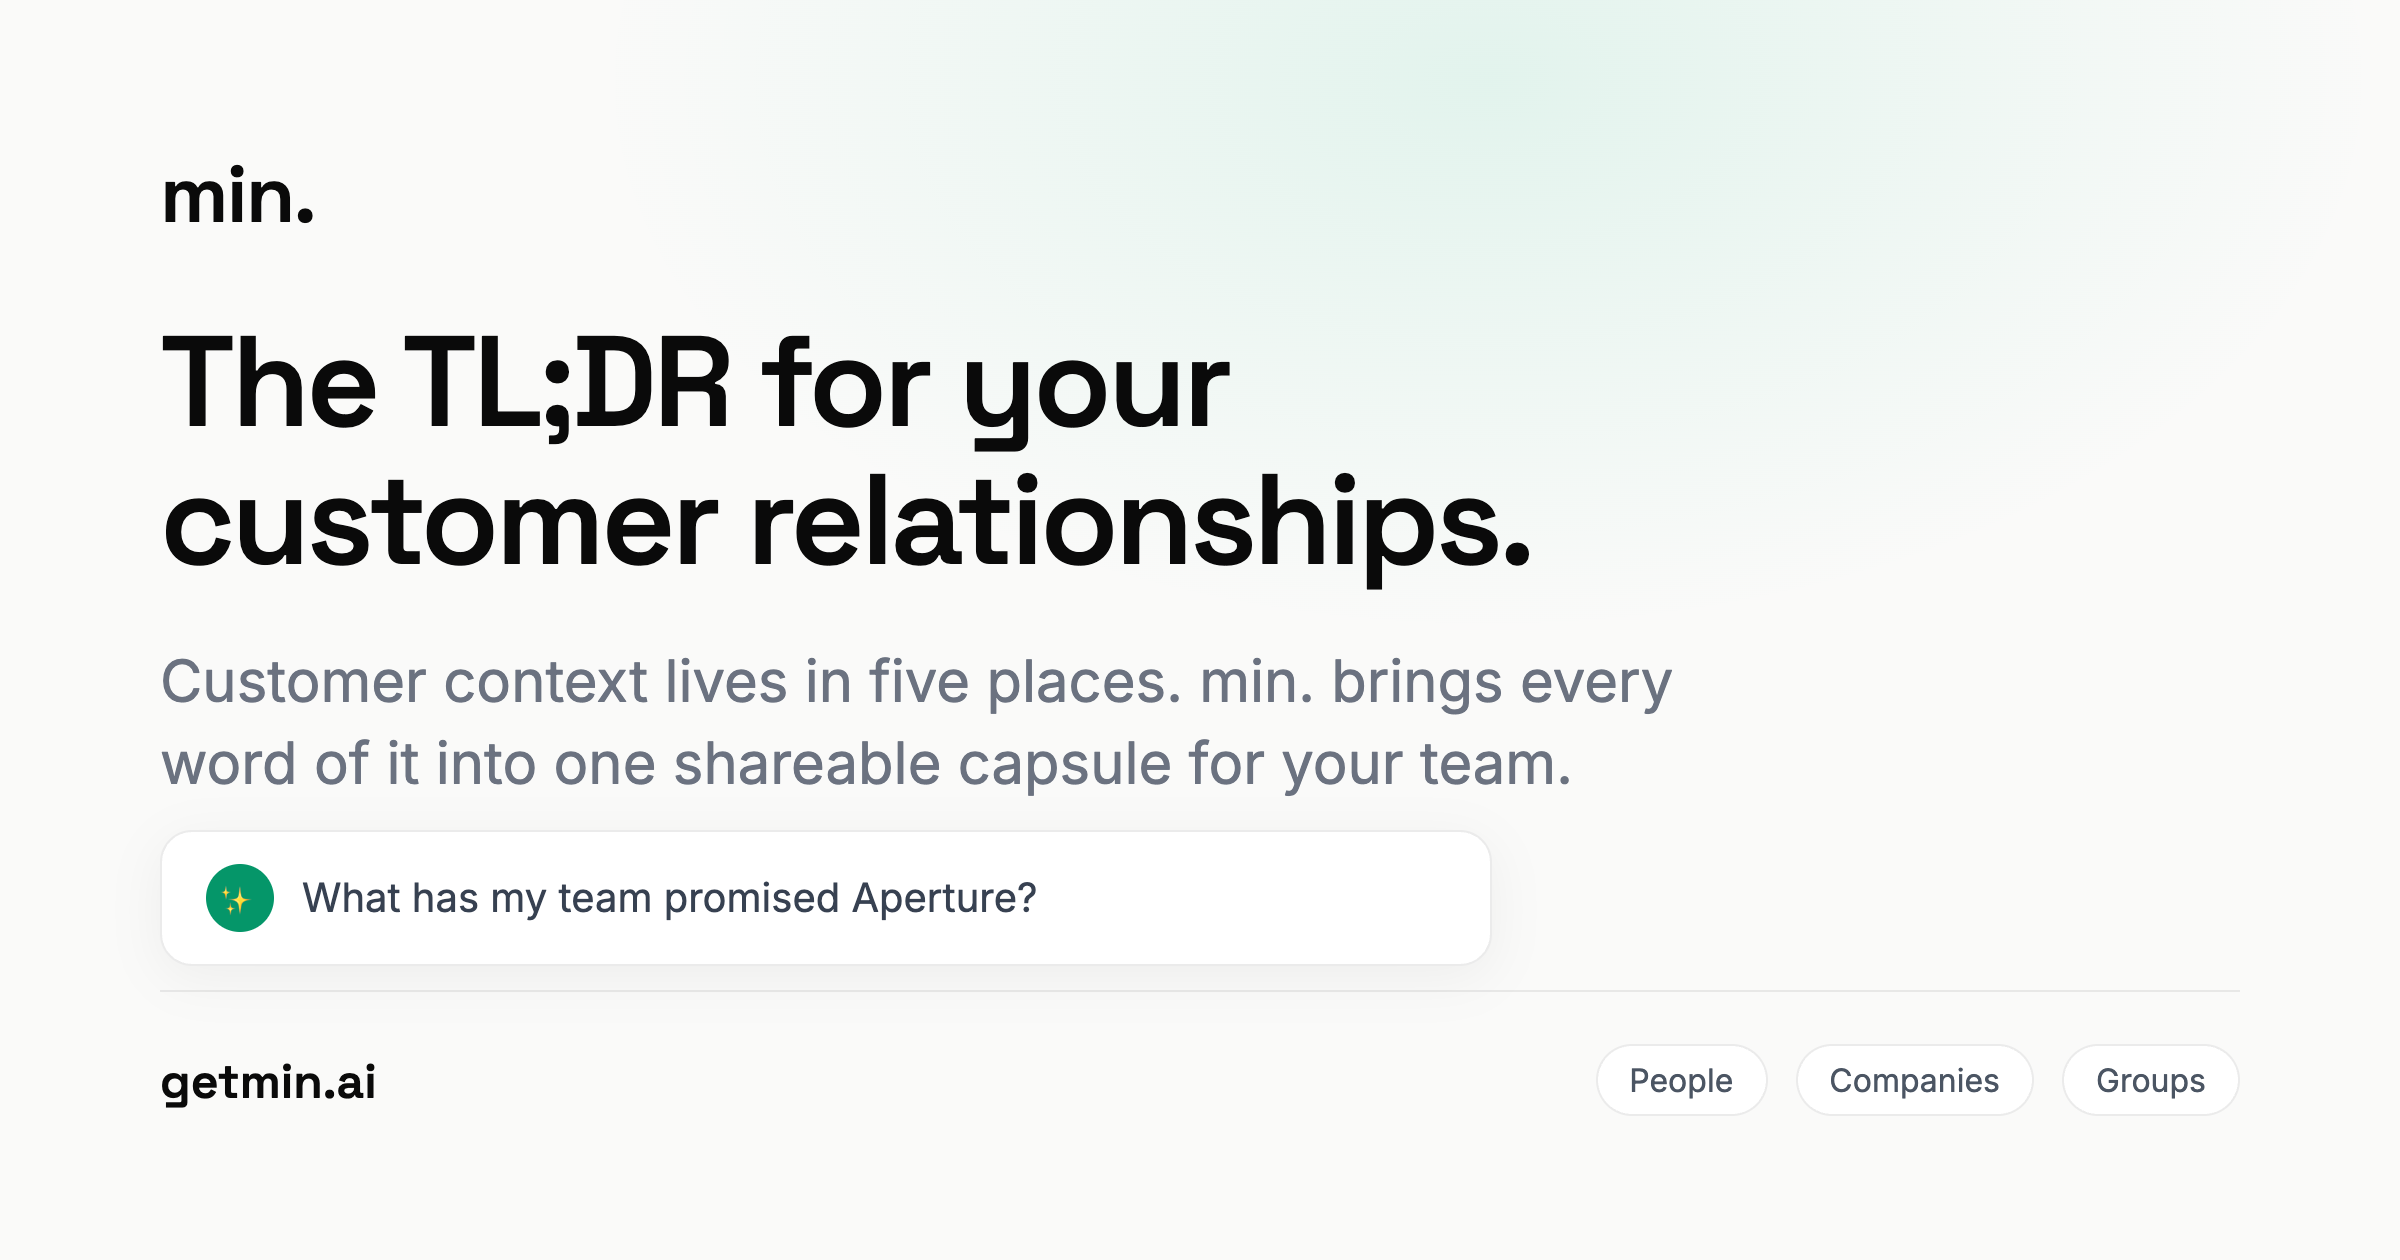
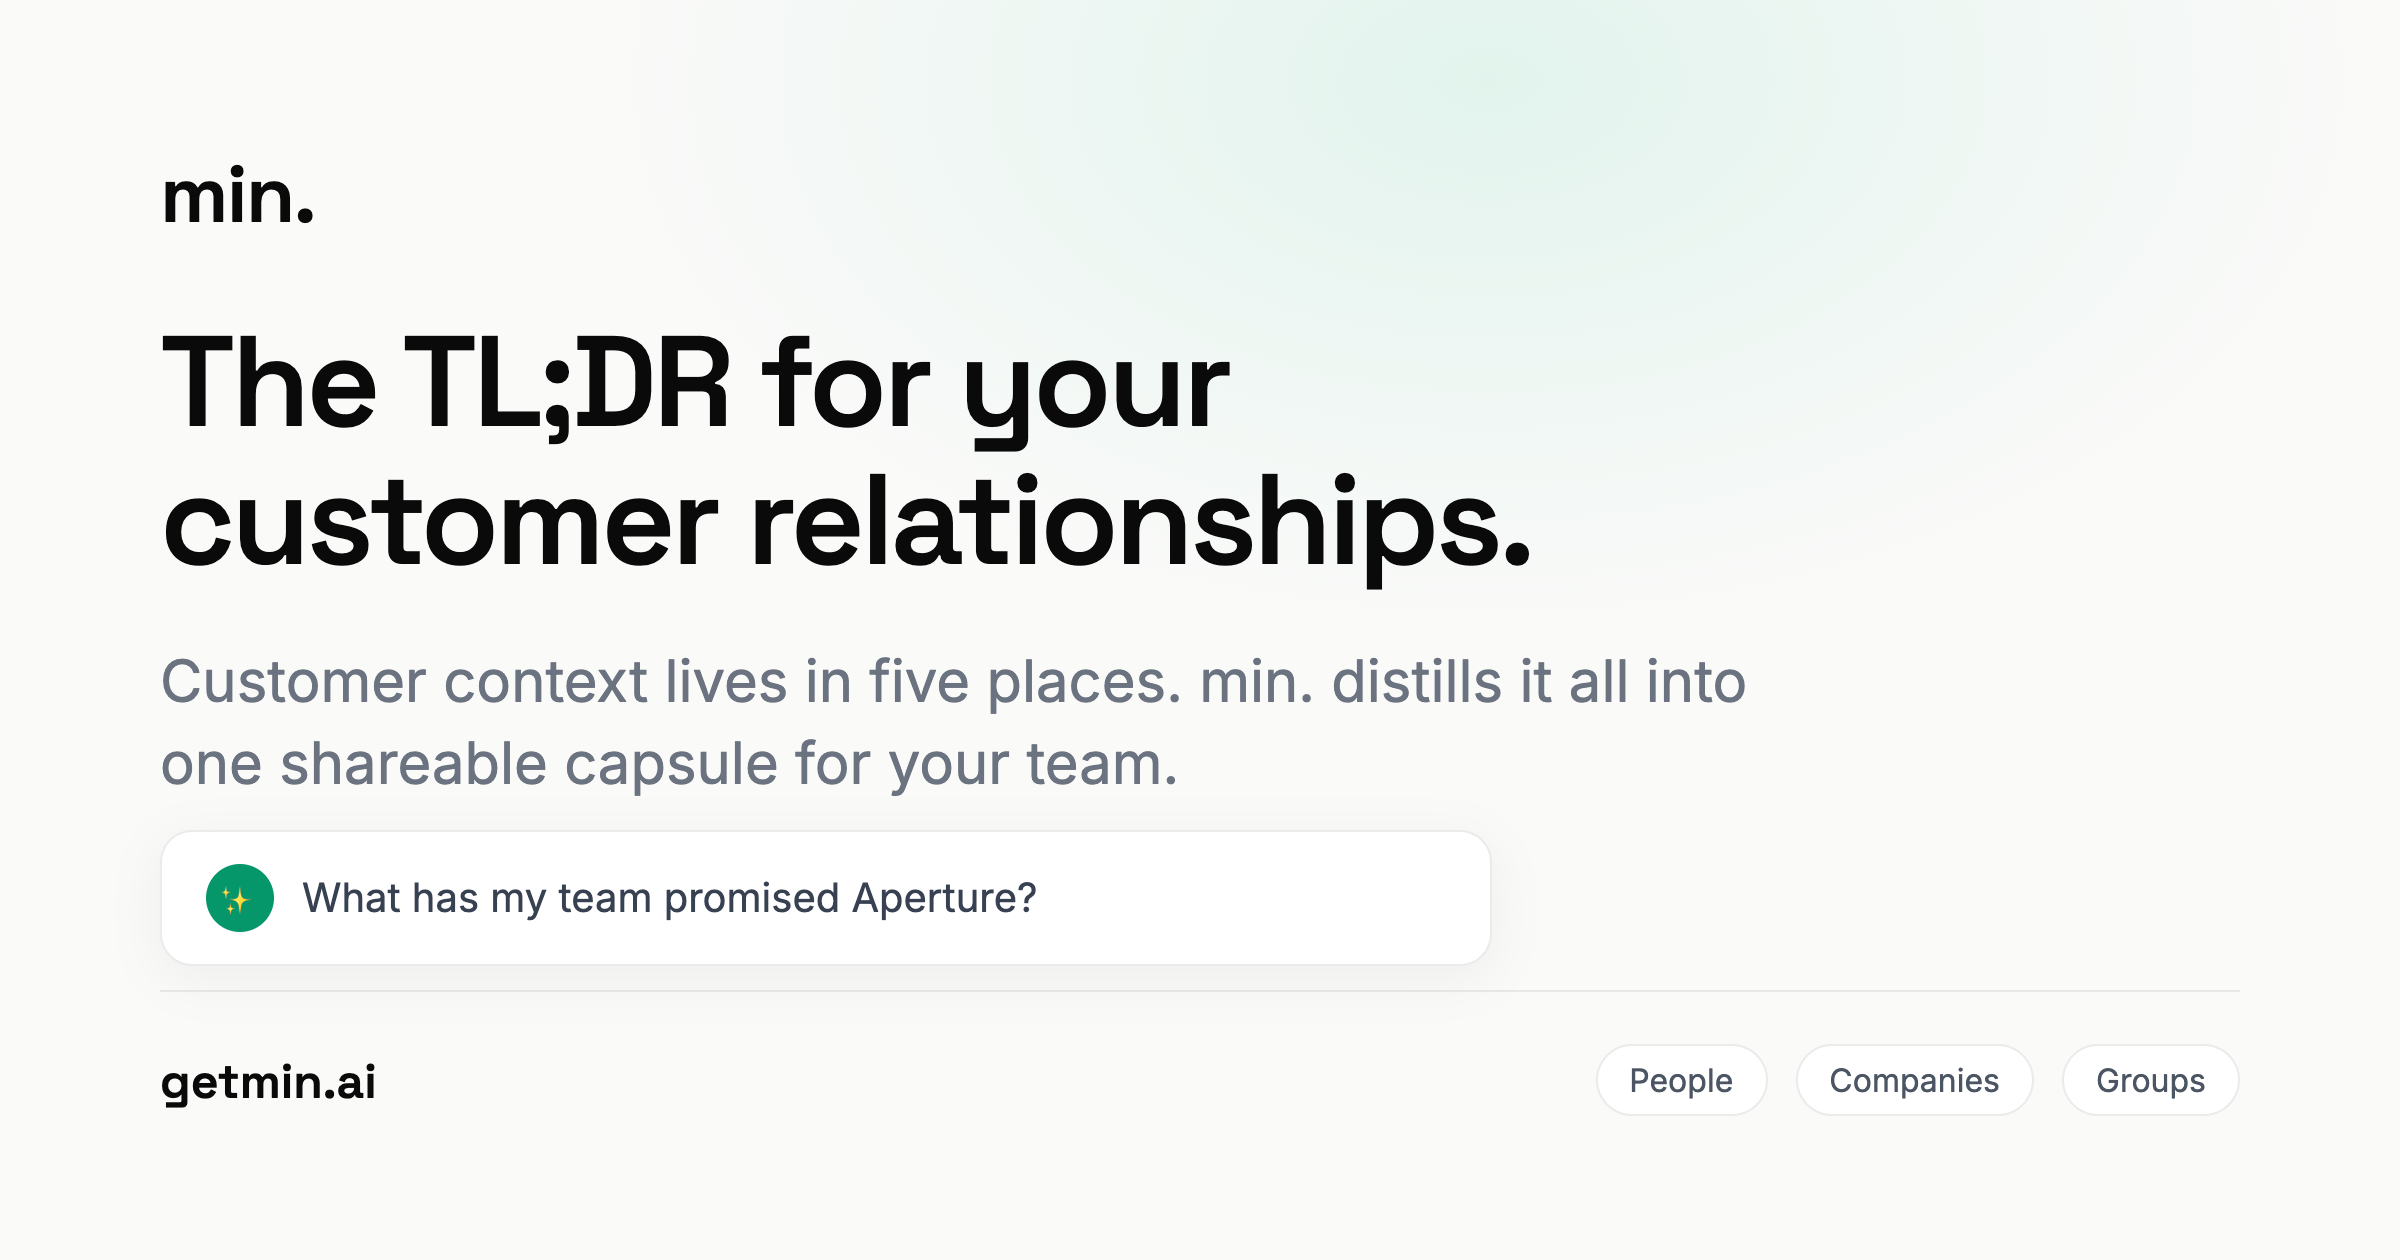
Sync meta and OG card to the distills phrasing

Changed region(s): [[0.0625, 0.5881, 0.6562, 0.619], [0.5625, 0.5262, 0.75, 0.5571]]

diff --git a/index.html b/index.html
@@ -7,7 +7,7 @@
     <title>min. | The TL;DR for your customer relationships</title>
     <!-- Primary Meta Tags -->
     <meta name="title" content="min. | The TL;DR for your customer relationships" />
-    <meta name="description" content="Your customer context lives in five places: calls, emails, calendars, notetakers, and your teammates' heads. min. brings every word of it into one shareable capsule, giving your team full context." />
+    <meta name="description" content="Your customer context lives in five places: calls, emails, calendars, notetakers, and your teammates' heads. min. distills it all into one shareable capsule, giving your team full context." />
     <meta name="keywords" content="relationship assistant, relationship memory, relationship context layer, memory layer for CRM, relationship capsule, CRM alternative, calendar and email assistant, meeting prep, follow up reminders, relationship management" />
     <meta name="author" content="min." />
 
@@ -15,7 +15,7 @@
     <meta property="og:type" content="website" />
     <meta property="og:url" content="https://getmin.ai/" />
     <meta property="og:title" content="min. | The TL;DR for your customer relationships" />
-    <meta property="og:description" content="Your customer context lives in five places: calls, emails, calendars, notetakers, and your teammates' heads. min. brings every word of it into one shareable capsule, giving your team full context." />
+    <meta property="og:description" content="Your customer context lives in five places: calls, emails, calendars, notetakers, and your teammates' heads. min. distills it all into one shareable capsule, giving your team full context." />
     <meta property="og:image" content="https://getmin.ai/og-cover.png" />
     <meta property="og:image:width" content="2400" />
     <meta property="og:image:height" content="1260" />
@@ -27,7 +27,7 @@
     <meta name="twitter:card" content="summary_large_image" />
     <meta name="twitter:url" content="https://getmin.ai/" />
     <meta name="twitter:title" content="min. | The TL;DR for your customer relationships" />
-    <meta name="twitter:description" content="Your customer context lives in five places: calls, emails, calendars, notetakers, and your teammates' heads. min. brings every word of it into one shareable capsule, giving your team full context." />
+    <meta name="twitter:description" content="Your customer context lives in five places: calls, emails, calendars, notetakers, and your teammates' heads. min. distills it all into one shareable capsule, giving your team full context." />
     <meta name="twitter:image" content="https://getmin.ai/og-cover.png" />
     <meta name="twitter:image:alt" content="min. — the TL;DR for your customer relationships" />
     <meta name="twitter:creator" content="@getminai" />
@@ -52,7 +52,7 @@
       "@context": "https://schema.org",
       "@type": "SoftwareApplication",
       "name": "min.",
-      "description": "Your customer context lives in five places: calls, emails, calendars, notetakers, and your teammates' heads. min. brings every word of it into one shareable capsule, giving your team full context.",
+      "description": "Your customer context lives in five places: calls, emails, calendars, notetakers, and your teammates' heads. min. distills it all into one shareable capsule, giving your team full context.",
       "applicationCategory": "BusinessApplication",
       "applicationSubCategory": "Relationship Management",
       "operatingSystem": "Web",

diff --git a/src/pages/Index.tsx b/src/pages/Index.tsx
@@ -15,7 +15,7 @@ const Index = () => {
         <title>min. | The TL;DR for your customer relationships</title>
         <meta
           name="description"
-          content="Your customer context lives in five places: calls, emails, calendars, notetakers, and your teammates' heads. min. brings every word of it into one shareable capsule, giving your team full context."
+          content="Your customer context lives in five places: calls, emails, calendars, notetakers, and your teammates' heads. min. distills it all into one shareable capsule, giving your team full context."
         />
         <link rel="canonical" href="https://getmin.ai" />
       </Helmet>

diff --git a/public/og-image.html b/public/og-image.html
@@ -152,7 +152,7 @@
                     customer relationships.
                 </div>
                 <div class="subheadline">
-                    Customer context lives in five places. min. brings every word of it into one shareable capsule for your team.
+                    Customer context lives in five places. min. distills it all into one shareable capsule for your team.
                 </div>
             </div>
 
